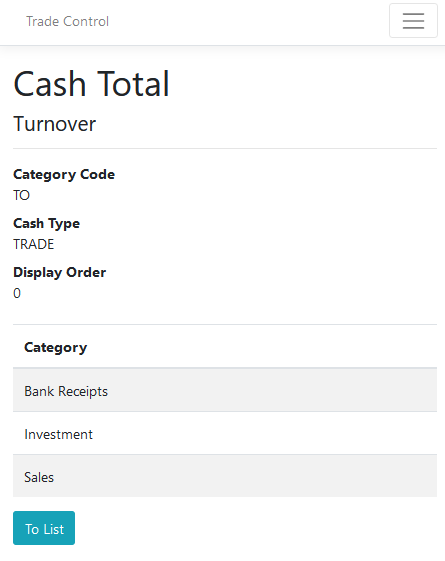
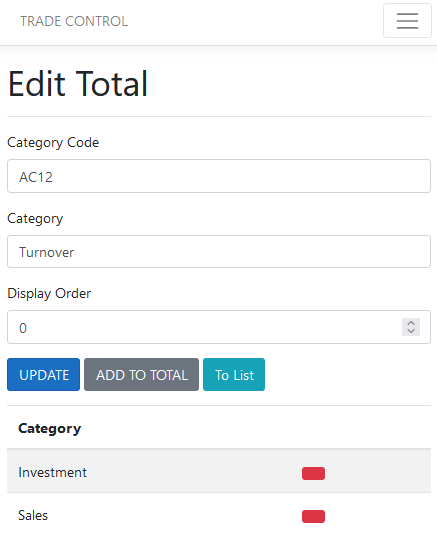
hmrc template
web app tutorial using the HMRC template

diff --git a/tutorials/balance-sheet-web.md b/tutorials/balance-sheet-web.md
@@ -45,7 +45,7 @@ Cash is classified [by three transaction types](cash-codes#types): TRADE, EXTERN
 
 Assets are modelled in Cash Accounts, like your bank statement. The Cash Account Type distinguishes between CASH, DUMMY and ASSETS.  CASH types are employed in the financial side of trading. DUMMY accounts merely allow you to adjust the invoice register without impacting the bank statements. The ASSETS type is used for calculating capital. Payments for these cash accounts will not generate associated invoices. All ASSET type accounts require a Cash Code of type MONEY. Each asset account requires a liquidity level because a balance sheet is presented least liquid first (Property=60). Zero liquidity represents the most liquid asset (Cash=0). It does not matter what these numbers are, only their order. You can close all these accounts, delete them or add others. 
 
-For the tutorial, create a new cash code called Stock Movement, using the Asset Category and no vat. Then filter the Maintenance page by Asset, un-close any defaults and add the additional accounts:
+Filter the Maintenance page by Asset and un-close the following template accounts:
 
 ![asset accounts]({{ site.url}}/images/web_asset_accounts.png)
 
@@ -76,7 +76,10 @@ To record stock, there will be an opening stock figure, then subsequent entries 
 
 ![Stock Movement]({{ site.url }}/images/web_stock_movement.png)
 
-To post, press the yellow button. The Statement button takes you to the Cash Statement. Since the Cash Statement by month is not very useful when reviewing assets, the projected balance will be presented for all transactions. The entry balance is the stock value at that time, which goes on the balance sheet; whilst the value of the Paid In or Out is carried over onto the P&L. If there is more than one entry in a period, the last balance is always used for the accounts.
+To post, press the yellow button. The Statement button takes you to the Cash Statement. Since the Cash Statement by month is not very useful when reviewing assets, the projected balance will be presented for all transactions. The entry balance is the stock value at that time, which goes on the balance sheet; whilst the value of the Paid In or Out is [carried over onto the P&L](#review-4). If there is more than one entry in a period, the last balance is always used for the accounts.
+
+![stock projection]({{ site.url }}/images/web_stock_projection.png)
+
 
 ### Fixed Assets
 
@@ -106,7 +109,7 @@ Firstly, we make a trading entry on the first month of our financial year that p
 
 ![bank loan]({{ site.url }}/images/web_bank_loan.png)
 
-Secondly, we make the corresponding double-entry with the opposite polarity, followed by the pay offs without interest, which is a cost. In this way, the company loan means the net increase in asset value is zero. On the trading side, these debt repayments would be accrued on the Company Statement, [as explained below](#accruals-and-prepayments) and therefore the loan is not free money.
+Secondly, we make the corresponding double-entry with the opposite polarity, followed by the pay offs without interest, which is a cost. In this way, the company loan means the net increase in asset value is zero.
 
 Finally, to register the Director Loan liability, we post an asset transaction to the bank loan for GBP 25K, obtaining the statement below. 
 
@@ -150,13 +153,39 @@ The balance sheet will now show a new cash balance. However, we should periodica
 
 ## Review 5
 
-The new transactions alter the amount of cash we have and affect the company tax and VAT owing. This changes the capital value of the business. Open the [Period End]({{ site.url }}/tutorials/cash-book-web#period-end) and re-build the retrospectively altered financial year.
+The new transactions alter the amount of cash we have and affect the company tax and VAT owing. This changes the capital value of the business. Open the [Period End]({{ site.url }}/tutorials/cash-book-web#period-end) and re-build the retrospectively altered financial year. 
+
+There are three components to your annual accounts - the balance sheet, the profit and loss account and the company tax return. For a detailed explanation, consult the tutorial on [filing your accounts]({{ site.url }}/tutorials/accounts-filing).
+
+### Balance Sheet
+
+Your updated balance sheet should match the following:
 
 ![balance sheet]({{ site.url }}/images/web_balance_sheet5.png) 
 
-The Profit and Loss account has also been updated. Debtors and creditors should remain unchanged. If there is a mismatch, you can view the organisation statement and modify the incorrect invoice. The details button breaks down the P&L into individual categories and cash codes. 
+### Profit and Loss Account
+
+The Debtors and Creditors Listing should remain unchanged. If there is a mismatch due to rounding, you can view the organisation statement and modify the incorrect invoice. There are three sections to the P&L.
+
+The first section presents your year-end accounts. Because we have used the HMRC template, the codes correspond to the required boxes on the government portal. The codes relating to accounts begin with the letters **AC**. Any codes prefixed with **TC** are internal to Trade Control and are not entered into the portal.
 
 ![profit and loss account]({{ site.url }}/images/web_profit_and_loss3.png) 
+
+### Company Tax Totals
+
+Tax totals and category details are required for completing the corporation tax computation, as well as submitting the assorted information to government that they want to collect. These codes begin with **CP**. 
+
+![company tax totals]({{ site.url }}/images/web_tax_totals.png) 
+
+### Cash Code and Category Totals
+
+Clicking on Details loads a long list of the categories and cash code details that make up the accounts. 
+
+![company tax details]({{ site.url }}/images/web_tax_details.png) 
+
+If you are running the website as an Azure App Service, you can also dynamically generate the Trade Statement from Excel. You can then view the whole year by period, as well as tax values and bank balances.
+
+[Download the Trade Statement for this tutorial]({{ site.url }}/docs/tc_accounts_hmrc.xlsx)
 
 ## Tax
 
@@ -184,8 +213,11 @@ Like VAT, adjust company tax by using the yellow button. This is necessary for g
 
 ![company tax totals]({{ site.url }}/images/web_company_tax_totals.png)
 
-If the company has made losses in previous financial years, the Company Tax statement automatically presents that in the projected balance. Dividing the negative tax due by the period end tax rate gives the total losses that can be carried forward. 
+If the company has made losses in previous financial years, the Company Tax statement automatically presents that in the projected balance. However, the statement presents a negative tax due rather than the total losses required by the government portal. The Losses C/F button presents a page that communicates how much losses can offset against your year-end obligation.
 
+## Filing
+
+Follow the instructions for [filing company accounts]({{ site.url }}/tutorials/accounts-filing)
 
 ## Licence
 

diff --git a/tutorials/cash-book-web.md b/tutorials/cash-book-web.md
@@ -19,6 +19,7 @@ The web app detects the device upon which it is running. In this tutorial we wil
 - [Processing credit](#crediting-accounts)
 - [Period and Year End](#period-end)
 - [Finalised Accounts](#finalised-accounts)
+- [Filing your accounts with HMRC]({{ site.url }}/tutorials/accounts-filing)
 - [Advanced Balance Sheet]({{ site.url}}/tutorials/balance-sheet-web)
 - [Cash Boxes]({{ site.url}}/tutorials/balance-sheet-web#cash-box)
 
@@ -39,11 +40,11 @@ The web app detects the device upon which it is running. In this tutorial we wil
 
 ### Setup
 
-When you [initialise the business]({{ site.url}}/tutorials/installing-web#start-up), choose Template 0. If your business is already set up, log on as [an administrator]({{ site.url}}/tutorials/installing-web#registrations) and from the menu open **System/Initialisation**. This tutorial was constructed in June and the start month was set to May (so y/e April 31st).
+When you [initialise the business]({{ site.url}}/tutorials/installing-web#start-up), choose the latest HRMC Company Accounts template. If your business is already set up, log on as [an administrator]({{ site.url}}/tutorials/installing-web#registrations) and from the menu open **System/Initialisation**. This tutorial was constructed in June and the start month was set to May (so y/e April 31st).
 
 ### Theory
 
-Trade Control does use the traditional system of double-entry book-keeping to derive the accounts. It applies Supply and Demand to money using a Cash/Quantity polarity principle. This method has distinct advantages generally. In relation to accounting:
+Trade Control does not use the traditional system of double-entry book-keeping to derive company accounts. Instead, it applies Supply and Demand to money using a Cash/Quantity polarity principle. This method has distinct advantages generally. In relation to accounting:
 
 - anyone can check the accounts for correctness
 - the algorithms can calculate tax and capital on a transaction grained basis from a genesis transaction
@@ -94,7 +95,7 @@ The Share Capital cash code is an asset class which cannot be paid into your ban
 
 Because this is a capital transaction, we must register its effect on the asset value of the business. Open **Cash Accounts/Asset Entry**:
 
-- Create a new entry on Called Up Share Capital
+- Select, or create a new entry, Called Up Share Capital
 - Pay out 1 GBP on the business start-up date
 - From the listing click on the yellow button next to the entry and post
  
@@ -129,15 +130,23 @@ Open the **Invoicing/Raise** list and use the New button to create suppliers and
 
 > Use your own email addresses so you can send yourself invoices and credit notes 
 
-Raise a new entry and create a supplier, with a cash code for carriage. You can also create a corresponding cash code for passing on the charge to the customer by using the sales category.
-
-![new cash code]({{ site.url }}/images/web_new_cash_code.png)
-
-The unposted invoices should specify the following values (default view):
+Raise entries for supply and sales to new customers and suppliers. The unposted invoices should specify the following values (workstation view):
 
 ![unposted invoices]({{ site.url }}/images/web_invoices_unposted.png)
 
 If you were using this capability as a kind of forward order book, you can post individually or by account. Here we just press the Post All button. [Manger and Administrator roles]({{ site.url}}/tutorials/installing-web#registrations) can post any invoice, otherwise a user can only post those they have raised themselves.
+
+Administators can also create new cash and category codes during the invoicing process:
+
+![new cash code]({{ site.url }}/images/web_new_cash_code.png)
+
+If you are using an HMRC template, cash codes will need to be integrated into the P&L totals. The categories that can be safely assigned to are:
+
+| Code | Description
+| - | - |
+| TC-DIRECT | Direct Costs
+| CP37 | Sundry Costs
+| TC-SALES | Sales |
 
 ### Emailing Invoices
 
@@ -187,7 +196,7 @@ Paying outstanding invoices is the same as making a miscellaneous payment only y
 
 ![debtors and creditors]({{ site.url }}/images/web_debtors_and_creditors1.png)
 
-When payment is incomplete, invoices are set to partially paid. For the tutorial, we pay off all the suppliers, but the customer partially pays their invoice on account. We therefore accept the default paid value for the suppliers and reduce the customer payment to half. Pressing the blue outline button from **Invoicing/Unpaid** will load the organisation into the Payment Entry form with the outstanding balance.
+When payment is incomplete, invoices are set to partially paid. For the tutorial, we pay off all the suppliers, but the customer partially pays their invoice on account. We therefore accept the default paid value for the suppliers and reduce the customer payment to half. Pressing the blue outline button from **Invoicing/Unpaid** will load the organisation into the Payment Entry form with the outstanding balance. Make sure you change the payment date to the last month of the previous financial year (April in this instance). 
 
 Returning to the Unpaid Invoices page shows the customer's partially paid invoice and the [Organisation Statement](#organisation-enquiry) for the customer shows a negative balance for the outstanding amount. 
 
@@ -217,13 +226,15 @@ The period end dates below were created during the setup procedure. Looking forw
 
 ## Finalised Accounts
 
-Once all these steps have been completed, you will have generated a legally compliant P&L with an associated Balance Sheet. Here is the Profit and Loss Account for the year:
+Once all these steps have been completed, you will have generated a legally compliant P&L with an associated Balance Sheet. Here is the Profit and Loss Account for the year, where the codes identify the corresponding box in the government portal:
 
 ![profit and loss account]({{ site.url }}/images/web_profit_and_loss1.png) 
 
-And here is the corresponding balance sheet:
+And here is the associated balance sheet:
 
 ![balance sheet]({{ site.url }}/images/web_balance_sheet3.png) 
+
+Follow the tutorial on [filing your accounts with HMRC]({{ site.url }}/tutorials/accounts-filing) for a step-by-step guide on submitting your annual tax return.
 
 ### Error Checking
 

diff --git a/accounts/index.md b/accounts/index.md
@@ -25,11 +25,11 @@ To estimate the amount of work you must generate to pay for your accountant and 
 
 > (AccountsCost + SoftwareSubscription) / ((NetProfit + AccountsCost + SoftwareSubscription) / Turnover) * YearsTrading
 
-If you run this calculation you will see just how much turnover you need to finance your accounts.
+If you run this calculation, you will see just how much turnover you need to finance your accounts.
 
 ### Tax Law
 
-In recent years, HMRC have made great strides in their Make Tax Digital (MTD) initiative. Each business is provided with a key to their government gateway, and from the portal you can register for various services. The three relevant services for your accounts are VAT, PAYE and the Corporation Tax Return. After registering, the Inland Revenue post the activation keys and you can interact with these services in a very intuitive way. Therefore, you do not need to read up on the latest tax law, because it is reflected live in the portal interfaces. Unlike times of yore, the best tax advisor is now the taxman. 
+In recent years, HMRC have made great strides in their Make Tax Digital (MTD) initiative and Government Gateway service. Each business is provided with a key to their government gateway, and from the portal you can register for various services. The three relevant services for your accounts are VAT, PAYE and the Corporation Tax Return. After registering, the Inland Revenue post the activation keys and you can interact with these services in a very intuitive way. Therefore, you do not need to read up on the latest tax law, because it is reflected live in the portal interfaces. Unlike times of yore, the best tax advisor is now the taxman. 
 
 Here is a sample home screen:
 
@@ -37,11 +37,11 @@ Here is a sample home screen:
 
 #### PAYE
 
-In the past, to process PAYE it was necessary either to buy payroll software or pay an accountant. Today, the government provide simple PAYE Tools that run locally, sending wage submissions to the HMRC payroll service. The service calculates your employer and employee NI and Income Tax obligations. It shows outstanding amounts in the PAYE section of your business portal and updates your employees personal NI records.
+In the past, to process PAYE it was necessary either to buy payroll software or pay an accountant. Today, the government provide simple PAYE Tools that run locally, sending wage submissions to the HMRC payroll service. The service calculates your employer and employee NI and Income Tax obligations. It shows outstanding amounts in the PAYE section of your business portal and updates your employee's personal NI records.
 
 #### VAT
 
-Vat is automatically calculated from VAT Codes and presented in the [Invoice Register]({{ site.url }}/tutorials/cash-book#invoice-register). Prior to 2019, a business could enter this information directly into the VAT section of the portal. For some reason, the legislation was changed such that entry could only be made by MTD approved third party private software. Trade Control uses a low-cost [CSV import website]({{ site.url }}/tutorials/digital-tax) to address the issue. At some point this will be replaced with its own access if the law is not repealed.
+Vat is automatically calculated from VAT Codes and presented in the [Invoice Statement]({{ site.url }}/tutorials/balance-sheet-web#vat). Prior to 2019, a business could enter this information directly into the VAT section of the portal. For some reason, the legislation was changed such that entry could only be made by MTD approved third party private software. Trade Control uses a low-cost [CSV import website]({{ site.url }}/tutorials/digital-tax) to address the issue. At some point this will be replaced with its own access if the law is not repealed.
 
 #### Company Tax Return
 
@@ -77,11 +77,11 @@ Profit and loss is set by a formal month-end closedown procedure, but can be ret
 
 ![Profit and Loss Web]({{ site.url }}/images/app_profit_and_loss_web.png)
 
-None of the categories on the P&L are hard coded, and only capital and tax on the balance sheet. Instead, they are constructed from a combination of user-specified cash accounts (bank and assets) and [cash codes]({{ site.url }}/tutorials/cash-codes). 
+Except for capital and tax, none of the categories in the accounts are hard coded. Instead, they are constructed from a combination of user-specified cash accounts (bank and assets) and [cash codes]({{ site.url }}/tutorials/cash-codes). Here we are using an HMRC template, so the codes identify required values for [filing your company annual return]({{ site.url }}/tutorials/accounts-filing).
 
 ### 365
 
-Company Accounts can be obtained from the [Trade Statement]({{ site.url }}/docs/tc_balance_sheet.xlsx) (an Excel [VSTO template]({{ site.url }}/tutorials/installing-vsto)).
+Company Accounts can be obtained from the [Trade Statement]({{ site.url }}/docs/tc_accounts_hmrc.xlsx) (an Excel [VSTO template]({{ site.url }}/tutorials/installing-vsto)).
 
 The first section shows trading performance, irrespective of assets. This information is obtained from [payment entries]({{ site.url }}/tutorials/cash-book#payment-entry), or the invoicing of [workflows]({{ site.url }}/tutorials/manufacturing#workflow) (tasks/jobs/projects) if you are using [the MIS]({{ site.url }}/mis):
 

diff --git a/tutorials/installing-web.md b/tutorials/installing-web.md
@@ -38,11 +38,13 @@ Many companies have a fixed IP address and an SQL Server multi-user licence. A s
 
 ## Instructions
 
+Estimated completion time 10-15 minutes.
+
 ### Start-up
 
 The app requires authentication to get past the home page. The first user to register their email address and password with the app is assigned an administrator role with login rights. Log on and you will be taken to the Initialisation form where you enter business identity and bank details. This form can be re-run from the System menu at any point, so you can re-boot the business after trying out the tutorials. Because each setting is remembered, it is worth entering in the correct values first time round. All these settings can also be amended from within an initialised business. If there is an error, you do not need to start from scratch.
 
-The installation template you select determines how the business will be configured. If you are working through [the web app tutorial]({{ site.url}}/tutorials/cash-book-web) make sure you select template zero. You can change the year end to the previous month if you want to replicate a year end. However, because the accounts are presented monthly, this is not important.
+The installation template you select determines how the business will be configured. The HMRC templates map cash to tax return codes, and therefore significantly simplify the submission process. You just enter in the corresponding values when filing your accounts. If you are working through [the web app tutorial]({{ site.url}}/tutorials/cash-book-web), change the year end to the previous month to replicate a year end. Otherwise, choose the start month you registered with HMRC.|
 
 ![initialisation]({{ site.url }}/images/web_initialisation.png)
 
@@ -79,7 +81,7 @@ Select Images and upload your company logo using the name *company_logo.png*. Th
 
 A document template is html with [Tags]. These tags are replaced with data when constructing a document. Images associated with the html need to be embedded in the email, so they also have a tag. Finally, it is common practice to attach PDF documents with invoices, such as Policy Statements, although this is optional. 
 
-[Template Tag Listing](https://github.com/tradecontrol/tradecontrol.web/docs/template_tags.md)
+[Template Tag Listing](https://github.com/tradecontrol/tradecontrol.web/blob/master/docs/template_tags.md)
 
 From **Invoicing/Email Templates** assign a template to an Invoice Type. Select the template and assign the logo. Click the logo and change the default tag [TAG0] to [LOGO], which is used by the template. Finally, add any PDF attachments you want to send with your invoices and credit notes.
 

diff --git a/tutorials/cash-book-365.md b/tutorials/cash-book-365.md
@@ -18,6 +18,7 @@ permalink: /tutorials/cash-book-365
 - [Processing credit](#crediting-accounts)
 - [Period and Year End](#period-end)
 - [Finalised Accounts](#finalised-accounts)
+- [Filing your accounts with HMRC]({{ site.url }}/tutorials/accounts-filing)
 
 ### Information
 
@@ -216,6 +217,8 @@ Once all these steps have been completed, you will have generated a legally comp
 From the Home menu, open the Balance Sheet Audit, which will present a list of debtors and creditors by month:
 
 ![audit]({{ site.url }}/images/accounts_balance_sheet_audit.png)
+
+Follow the tutorial on [filing your accounts with HMRC]({{ site.url }}/tutorials/accounts-filing) for a step-by-step guide on submitting your annual tax return.
 
 # INFORMATION
 

diff --git a/tutorials/accounts_filing.md b/tutorials/accounts_filing.md
@@ -1,0 +1,6 @@
+---
+layout: page
+title: Filing your Accounts
+permalink: /tutorials/accounts-filing
+---
+
